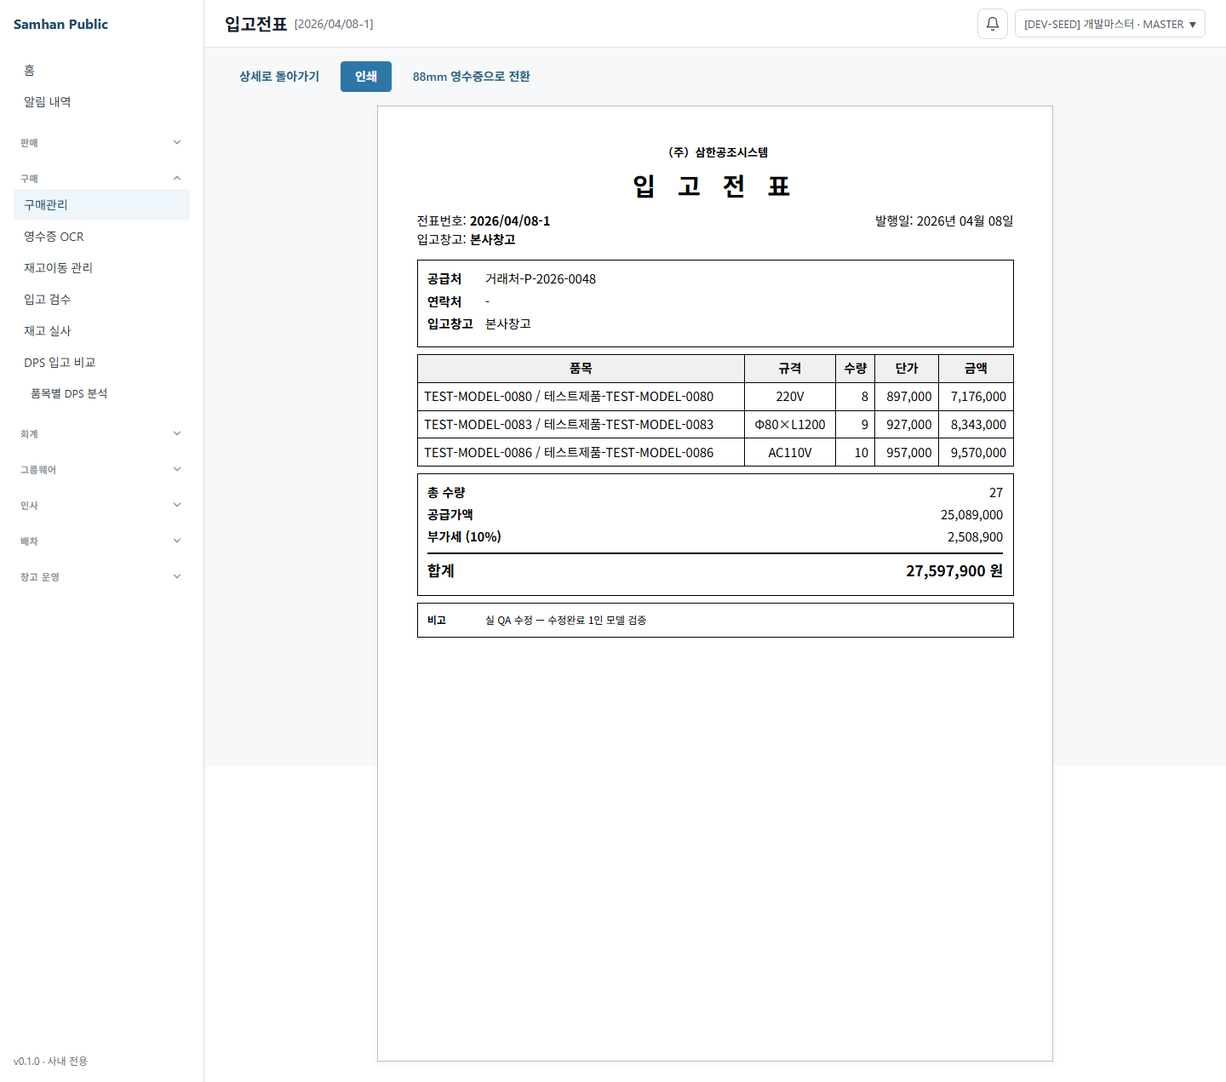
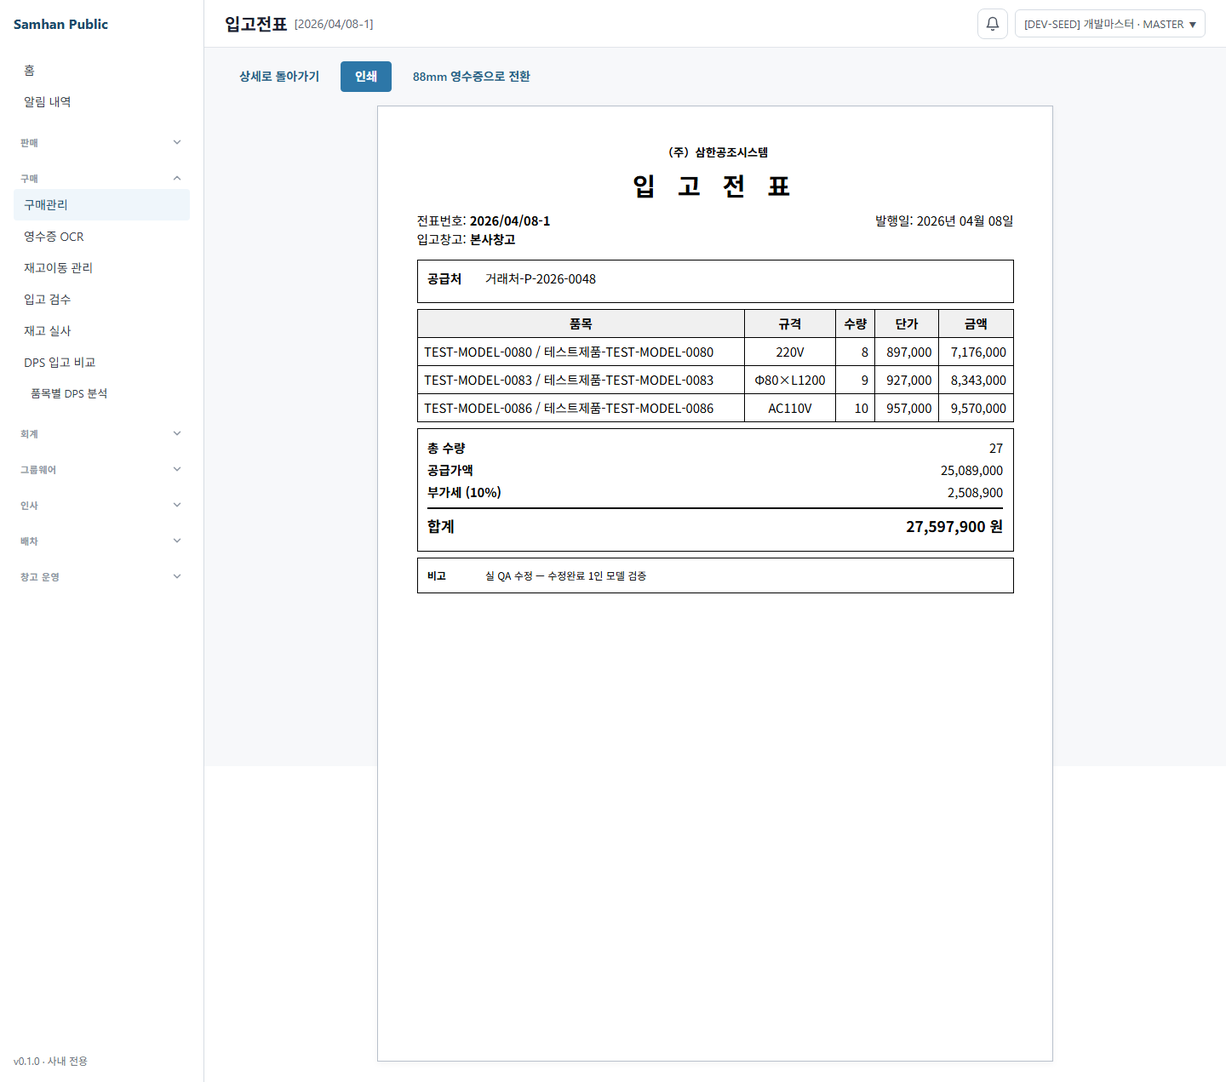
[FIX] 미리보기 슬라이스1 — Opus 리뷰 fix (문서 정합 + 입고창고 중복 + 전표번호 0제거 검증)
Opus 5-agent(FE/QA/Designer) 리뷰 수렴 fix.

P1 문서 정합 (방향 전환 미반영 → 정정):
- docs/manual/01-영업/06-견적서.md: 견적 인쇄 'UUID 고침/운영' 거짓 기록 → '종합견적서 에픽 이관, 진입 버그(estimateNo→%2F→게이트웨이 400) origin 선재' 정정.
- DESIGN.md: 슬라이스1 구방향(결재란 확장+입고/견적 결재) → 최종(입고=출고양식/견적=에픽/결재골격=후속 결재문서 에픽 미사용 스캐폴드) 전면 갱신.

P2:
- InboundView 입고창고 헤더+박스 중복 → 출고전표 대칭(헤더 1회), emphasis no-op 제거, 공급처 연락처 조건부 렌더.
- real-qa C1/C3 전표번호 0제거 단언 추가 (2026/04/08-1 + not 001, 2026/02/18-1).
- orderNo.test.ts stripSlipNoZeros 단위테스트 16건 (order-app vitest 격리 16/16 PASS).

검증: typecheck 0, mock spec 5/5, 라이브 QA 2/2.

⚠ desktop 단위 테스트 러너 부재 — orderNo.test.ts CI 미연동(typecheck/build에서 exclude). desktop vitest 정식 도입은 후속 인프라 슬라이스.

Changed region(s): [[0.3438, 0.2762, 0.8438, 0.583]]

diff --git a/clients/desktop/src/renderer/utils/orderNo.test.ts b/clients/desktop/src/renderer/utils/orderNo.test.ts
@@ -1,0 +1,94 @@
+import { describe, it, expect } from 'vitest'
+
+import { stripSlipNoZeros, toOrderPathId } from './orderNo'
+
+/**
+ * `orderNo` 유틸 단위 테스트 — 인쇄 미리보기 표준화 슬라이스1.
+ *
+ * 본 테스트는 desktop 인쇄 양식(입고/출고전표)이 의존하는 전표번호 표시 계약을 박제한다.
+ * desktop 은 단위 러너(vitest)를 상시 포함하지 않으므로, 실행 검증은 order-app 의
+ * vitest 바이너리로 격리 수행한다(PR 보고에 명시). 본 파일은 production typecheck/build
+ * 대상에서 제외(`*.test.ts` exclude)되어 `npm run typecheck` 0 을 유지한다.
+ *
+ * 검증 대상 계약(실 구현 동작 기준 — `stripSlipNoZeros` 는 마지막 `-` 뒤 숫자부만 0제거):
+ *  - 전표번호 표준 `YYYY/MM/DD-NNN` 의 날짜 0은 보존, 번호부 앞자리 0만 제거
+ *  - 하이픈이 없거나 마지막 `-` 뒤가 숫자가 아니면 원본 폴백(no-op)
+ *  - null/undefined/빈 문자열은 빈 문자열
+ */
+describe('stripSlipNoZeros', () => {
+  describe('전표번호 표준(YYYY/MM/DD-NNN) — 날짜 0 보존 + 번호부 0제거', () => {
+    it('2026/04/08-001 → 2026/04/08-1 (날짜 0 보존, 번호부 선행 0제거)', () => {
+      expect(stripSlipNoZeros('2026/04/08-001')).toBe('2026/04/08-1')
+    })
+
+    it('2026/02/18-001 → 2026/02/18-1 (출고전표 C3 시드 케이스)', () => {
+      expect(stripSlipNoZeros('2026/02/18-001')).toBe('2026/02/18-1')
+    })
+
+    it('2026/04/08-010 → 2026/04/08-10 (앞자리 0만 제거, 뒤 0 보존)', () => {
+      expect(stripSlipNoZeros('2026/04/08-010')).toBe('2026/04/08-10')
+    })
+
+    it('2026/12/31-0010 → 2026/12/31-10 (다중 선행 0 제거)', () => {
+      expect(stripSlipNoZeros('2026/12/31-0010')).toBe('2026/12/31-10')
+    })
+
+    it('2026/04/08-1 → 2026/04/08-1 (이미 0 없음 — 변화 없음)', () => {
+      expect(stripSlipNoZeros('2026/04/08-1')).toBe('2026/04/08-1')
+    })
+  })
+
+  describe('마지막 -뒤 숫자부 단독 케이스', () => {
+    it('-000 → -0 (전부 0 → 최소 0 유지)', () => {
+      expect(stripSlipNoZeros('-000')).toBe('-0')
+    })
+
+    it('-0 → -0 (단일 0 유지)', () => {
+      expect(stripSlipNoZeros('-0')).toBe('-0')
+    })
+  })
+
+  describe('폴백 — 하이픈 없음 / 비숫자 tail (원본 그대로)', () => {
+    it('하이픈이 없는 숫자열은 원본 폴백(번호부 분리 불가): 001 → 001', () => {
+      // 구현 계약: 마지막 `-` 가 없으면 번호부를 분리하지 않고 원본 반환.
+      // (단독 숫자열은 전표번호 표준 형식이 아니므로 0제거 대상이 아님)
+      expect(stripSlipNoZeros('001')).toBe('001')
+    })
+
+    it('하이픈이 없는 숫자열은 원본 폴백: 010 → 010', () => {
+      expect(stripSlipNoZeros('010')).toBe('010')
+    })
+
+    it('마지막 -뒤가 비숫자면 원본 폴백: ABC-12x → ABC-12x', () => {
+      expect(stripSlipNoZeros('ABC-12x')).toBe('ABC-12x')
+    })
+
+    it('마지막 -뒤가 비숫자면 원본 폴백: NO-DASH-HERE-abc → NO-DASH-HERE-abc', () => {
+      expect(stripSlipNoZeros('NO-DASH-HERE-abc')).toBe('NO-DASH-HERE-abc')
+    })
+  })
+
+  describe('null / undefined / 빈 문자열', () => {
+    it('null → 빈 문자열', () => {
+      expect(stripSlipNoZeros(null)).toBe('')
+    })
+
+    it('undefined → 빈 문자열', () => {
+      expect(stripSlipNoZeros(undefined)).toBe('')
+    })
+
+    it("빈 문자열 → 빈 문자열", () => {
+      expect(stripSlipNoZeros('')).toBe('')
+    })
+  })
+})
+
+describe('toOrderPathId', () => {
+  it('슬래시 → 하이픈 치환 (URL 경로 세그먼트): 2026/05/31-2 → 2026-05-31-2', () => {
+    expect(toOrderPathId('2026/05/31-2')).toBe('2026-05-31-2')
+  })
+
+  it('하이픈 입력은 no-op: 2026-05-31-2 → 2026-05-31-2', () => {
+    expect(toOrderPathId('2026-05-31-2')).toBe('2026-05-31-2')
+  })
+})

diff --git a/clients/desktop/src/renderer/print/InboundView.tsx b/clients/desktop/src/renderer/print/InboundView.tsx
@@ -91,14 +91,12 @@ export function InboundView() {
             <span className="label">공급처</span>
             <span className="value">{slip.partnerName ?? '-'}</span>
           </div>
-          <div className="row">
-            <span className="label">연락처</span>
-            <span className="value">{slip.contactPhone ?? '-'}</span>
-          </div>
-          <div className="row">
-            <span className="label">입고창고</span>
-            <span className="value emphasis">{destWarehouseName}</span>
-          </div>
+          {slip.contactPhone ? (
+            <div className="row">
+              <span className="label">연락처</span>
+              <span className="value">{slip.contactPhone}</span>
+            </div>
+          ) : null}
         </section>
 
         <div className="inbound-divider">- - - - - - - - - - - - - - - - - - - -</div>

diff --git a/docs/design/print-preview-standardization/DESIGN.md b/docs/design/print-preview-standardization/DESIGN.md
@@ -1,8 +1,23 @@
-# 전자서명 결재문서 형식 — 공통 인쇄 양식 설계 가이드
+# 미리보기 표준화 — 공통 인쇄 양식 설계 가이드
 
 작성일: 2026-06-14
 작성자: Designer (Samhan Public)
 결정 근거: 개발책임자 2026-06-14 구두 결정 (미리보기 표준화 에픽)
+최종 갱신: 2026-06-14 (PR #481 — 슬라이스1 방향 전환 반영)
+
+> ## 🔀 슬라이스1 방향 전환 (2026-06-14, PR #481) — 본 문서 정정 사유
+>
+> 본 가이드의 **초안 방향**은 "슬라이스1 = PrintLayout 결재란 확장 + 입고전표·견적서를 전자서명 결재문서 형식으로 전환" 이었다.
+> 그러나 슬라이스1 진행 중 개발책임자 결정으로 방향이 다음과 같이 **전환**되었고, 실제 머지 코드는 이 전환된 방향을 따른다.
+>
+> | 항목 | 초안 방향 (폐기) | **최종 방향 (슬라이스1 실제 구현)** |
+> |---|---|---|
+> | **입고전표** (`InboundView.tsx`) | 결재란 3칸 결재문서 형식으로 전환 | **출고전표(`OutboundView.tsx`) 양식과 통일.** 결재란 미적용. A4 세로 기본 + 88mm 영수증 토글. 헤더에 입고창고 1회 표시(중복 제거). 전표번호 0제거 적용 |
+> | **견적서** (`QuoteView.tsx`) | 결재란 3칸 결재문서 형식으로 전환, `[직인]` 제거 | **종합견적서 에픽으로 이관.** 슬라이스1 미변경. 진입 버그(슬래시 견적번호 → 게이트웨이 `%2F` 차단 → 400)는 origin 선재 상태로 잔존, 종합견적서 에픽에서 해결 |
+> | **PrintLayout 결재 골격** (`approvalDoc`/`docHeader`/`approvalSteps`/`.print-approval-*`) | 슬라이스1에서 입고/견적에 적용·렌더 | **후속 "결재문서 에픽"(그룹웨어 결재 등)용 미사용 스캐폴드로만 존속.** 슬라이스1에서 어떤 view 도 `approvalDoc=true` 를 전달하지 않아 **미렌더**. opt-in 기본값 `false` 유지 |
+> | **전표번호 표시** | (해당 없음) | `stripSlipNoZeros` 추가 — 전표번호 표준 `YYYY/MM/DD-NNN` 의 날짜 0은 보존하고 마지막 `-` 뒤 번호부 선행 0만 제거(`-001` → `-1`). 입고·출고전표 공통 적용 |
+>
+> 아래 §2~§9 의 결재문서 형식 상세 설계는 **후속 "결재문서 에픽" 용 설계 자료**로 보존한다 (슬라이스1 미적용분 포함). 슬라이스1 실제 구현 범위는 §6 "슬라이스 분할 로드맵 — 슬라이스 1" 의 갱신된 내용을 진실원으로 한다.
 
 ---
 
@@ -15,19 +30,25 @@
 | 양식 | View 파일 | 이유 |
 |---|---|---|
 | 출고전표 (작업지시서) | `DispatchView.tsx` | 개발책임자 확정 legacy 양식 (SAMSUNG 로고 스트립, 결재란 5칸) |
-| 출고전표 (영수증) | `OutboundView.tsx` | 거래처 동봉용, 88mm/A4 분기 유지 |
+| 출고전표 (영수증) | `OutboundView.tsx` | 거래처 동봉용, 88mm/A4 분기 유지. **슬라이스1 에서 입고전표가 이 양식으로 통일됨(기준 양식)** |
 | 거래명세서 | `InvoiceView.tsx`, `StatementBatchView.tsx` | 법정 양식 아니나 거래처 수발 양식 |
 | 세금계산서 | `TaxInvoiceView.tsx`, `SalesInvoicePrintPage.tsx` | 국세청 e-Tax 표준 양식 |
 | 매입전표 (PurchaseSlipPrintPage) | `PurchaseSlipPrintPage.tsx` | legacy GAS 100% 매칭 의무 (SP-08) |
 
-### 1-B. 일관화 대상 ("결재문서 형식" 신규 적용)
+### 1-B. 슬라이스1 실제 적용 범위 (방향 전환 후)
 
-로고/인감 없이 전자서명 결재란만 포함하는 회사 공식 결재문서.
+| 문서 | 현행 View | **슬라이스1 처리** |
+|---|---|---|
+| 입고전표 | `InboundView.tsx` | **출고전표(`OutboundView.tsx`) 양식으로 통일.** 결재란/결재문서 형식 미적용. 헤더 meta-row 에 입고창고 1회 표시(공급처 박스 내 중복 row 제거), 공급처 연락처는 값 있을 때만 조건부 렌더, 전표번호 0제거(`stripSlipNoZeros`) 적용 |
+| 견적서 | `QuoteView.tsx` | **종합견적서 에픽으로 이관 — 슬라이스1 미변경.** 진입 버그 잔존(아래 §1-D) |
+
+### 1-C. 후속 "결재문서 에픽" 대상 (전자서명 결재문서 형식 — 슬라이스1 미적용)
+
+로고/인감 없이 전자서명 결재란만 포함하는 회사 공식 결재문서. **§2~§9 의 결재문서 형식 설계는 본 분류를 위한 후속 에픽 자료이며, 슬라이스1 에서는 적용하지 않는다.** PrintLayout 의 `approvalDoc` 골격은 그룹웨어 결재 등 후속 에픽이 사용할 미렌더 스캐폴드로만 존속한다.
 
 | 문서 | 현행 View | 현행 결재란 현황 |
 |---|---|---|
-| 입고전표 | `InboundView.tsx` | `[인]` 텍스트 사인란 3칸 (담당자/검수자/공급처확인) — 전자서명 미적용 |
-| 견적서 | `QuoteView.tsx` | `[직인]` 텍스트 사인란 1칸 — 전자서명 미적용 |
+| 그룹웨어 결재 첨부 미리보기 | `GroupwareApprovalDetailPage.tsx` 파생 신규 | 미리보기 인쇄 미구현 — 후속 에픽 1순위 (approvalDoc 골격 첫 실사용 예정) |
 | 배차 작업지시서 (그룹웨어 연동용) | `DispatchView.tsx` 파생 신규 | 현행 DispatchView 는 제외 대상. 그룹웨어 결재 첨부 미리보기는 신규 설계 필요 |
 | 거래처원장 | `PartnerLedgerView.tsx` | 발행자 footer 만 있음 — 결재란 없음 |
 | 분개장 | 미구현 (print-spec.md 설계만) | - |
@@ -43,6 +64,16 @@
 | 일계표 | 미구현 | - |
 | 월계표 | 미구현 | - |
 | 미수/미지급 현황 | 미구현 | - |
+
+### 1-D. 견적 인쇄 진입 버그 (origin 선재 — 종합견적서 에픽 이관)
+
+견적 인쇄는 본 에픽 이전부터 진입 단계에서 실패하는 상태이며, **미리보기 표준화 슬라이스1 범위 외**이다.
+
+- `EstimateDetailPage.handlePrint` 이 슬래시 표준 견적번호(`estimateNo`, 예: `2026/06/08-2`)를 `encodeURIComponent` 로 인코딩해 path 세그먼트로 전달한다 (`/#/sales/estimates/2026%2F06%2F08-2/print`).
+- 라우트 `/sales/estimates/:estimateNumber/print` → `QuoteView` 가 `getEstimate(estimateNumber)` 호출.
+- 게이트웨이/Spring `StrictHttpFirewall` 이 인코딩된 슬래시(`%2F`)를 차단 → 400.
+- 전표/주문번호 슬래시 표준 정책상 URL 경로 세그먼트는 `toOrderPathId` 로 하이픈 치환해야 하나, 견적 인쇄 경로는 미적용 상태.
+- 해결은 **종합견적서 에픽** 에서 진입 경로 정정 + 양식과 함께 진행한다. (메뉴얼 `docs/manual/01-영업/06-견적서.md` §4-5 동기화 완료.)
 
 ---
 
@@ -165,6 +196,8 @@ Regular 8pt, `--ink-tertiary`, 결재란 아래 2mm 간격.
 
 ## 3. PrintLayout 확장 방안
 
+> 📍 **구현 현황 (PR #481 기준):** 아래 §3-B 의 `approvalDoc`/`docHeader`/`approvalSteps`/`closingNote` 슬롯은 `PrintLayout.tsx` 에 **이미 구현되어 있다**(인터페이스 `PrintDocHeader`/`PrintApprovalStep` + `.print-approval-doc` 렌더 분기 + 결재란 우상단 코너 배치 + 전자서명 안내 문구). 다만 **슬라이스1 에서 이 골격을 사용하는 view 는 없다**(`approvalDoc` 기본값 `false`, 어떤 호출처도 `true` 미전달 → 미렌더). 후속 결재문서 에픽(그룹웨어 결재 등)이 첫 실사용 예정이다. 아래 설계 문구의 "구현은 FE agent 담당" 등 미래형 표현은 초안 시점 기준이다.
+
 ### 3-A. 현행 PrintLayout 구조 분석
 
 `clients/desktop/src/renderer/print/PrintLayout.tsx` (L60-L88):
@@ -257,7 +290,9 @@ interface ApprovalStep
 
 ### 4-A. 인쇄 공통 토큰 (기존 + 신규)
 
-기존 `--print-*` 토큰 (`tokens.css`) 을 그대로 사용. 슬라이스1 토큰 등재 현황 (구현 = 진실원):
+> ⚠ **슬라이스1 방향 전환 반영:** 아래 `--print-approval-*` 결재 토큰은 **후속 결재문서 에픽용**이며 슬라이스1 의 입고/출고전표 양식에는 사용되지 않는다. 실제 등재값의 진실원은 `clients/web/design-system/src/tokens/tokens.css` 이며(코드에는 본 표 외 `--print-approval-corner-*` 등 우상단 코너 배치용 토큰도 등재되어 있음), 후속 에픽 착수 시 코드 기준으로 표를 재정리한다.
+
+기존 `--print-*` 토큰 (`tokens.css`) 을 그대로 사용. 결재 토큰 등재 현황 (구현 = 진실원, **후속 에픽용 — 슬라이스1 미사용**):
 
 | 토큰명 | 값 | 용도 | tokens.css 등재 |
 |---|---|---|---|
@@ -309,15 +344,17 @@ interface ApprovalStep
 
 ## 5. 문서별 결재선 정의 매핑
 
-### 5-A. 전표류
+> ⚠ **본 §5 매핑은 후속 "결재문서 에픽" 설계 자료다.** 슬라이스1 방향 전환(문서 상단 🔀 배너)으로 **입고전표·견적서는 결재문서 형식 적용 대상에서 제외**되었다. 아래 5-A 의 입고/견적 결재선은 후속 에픽에서 재검토하며, 슬라이스1 에서는 적용하지 않는다.
+
+### 5-A. 전표류 (후속 에픽 — 슬라이스1 미적용)
 
 | 문서 | 결재 칸 | 서명 데이터 소스 |
 |---|---|---|
-| 입고전표 | 작성 / 검토 / 승인 (3칸) | 담당자(`ownerFullName`) / 검수자(`inspector.fullName`) / 승인자(미구현) |
-| 견적서 | 작성 / 검토 / 승인 (3칸) | 작성자(`authorName`) / 검토자(미구현) / 승인자(미구현) |
+| ~~입고전표~~ (슬라이스1 에서 출고전표 양식 통일로 전환 — 결재란 미적용) | (후속 에픽 재검토) | - |
+| ~~견적서~~ (종합견적서 에픽 이관) | (종합견적서 에픽 재검토) | - |
 
-현행 `InboundView.tsx` (L184-L210): 3칸 `[인]` 텍스트 사인란 → 전자서명으로 교체.
-현행 `QuoteView.tsx` (L241-L248): `[직인]` 텍스트 → 제거, 전자서명 결재란으로 교체.
+> 슬라이스1 실제 처리: 입고전표는 `OutboundView` 양식으로 통일(결재란 미적용), 견적서는 종합견적서 에픽 이관. §1-B / §6 슬라이스1 참조.
+> 후속 결재문서 에픽이 전표류에 결재란을 적용할 경우의 데이터 소스 후보(설계 자료): 입고전표 담당자(`ownerFullName`)/검수자(`inspector.fullName`), 견적서 작성자(`authorName`) 등 — 실연동은 그룹웨어 결재 연동 후 재정의.
 
 ### 5-B. 그룹웨어 결재 연동 문서 (배차 작업지시서 파생)
 
@@ -361,23 +398,29 @@ interface ApprovalStep
 
 ## 6. 슬라이스 분할 로드맵
 
-### 슬라이스 1 — PrintLayout 결재란 확장 + 전표류 (입고/견적)
+### 슬라이스 1 — 입고전표 출고통일 + 견적 분리 (최종 방향, PR #481)
 
-**범위**
-- `PrintLayout.tsx` prop 확장 (`approvalDoc`, `docHeader`, `approvalSteps`)
-- 공통 헤더/결재란 렌더 컴포넌트 신규 (`ApprovalDocHeader`, `ApprovalSignBlock`)
-- `tokens.css` `--print-approval-*` 토큰 추가 (w-std/h-std/sig-h/name-h/label-h/img-max-h-approval/border = 7종 등재, label-bg·line-color 는 기존 재사용)
-- `InboundView.tsx`: `approvalDoc=true` 전환, 3칸 `[인]` → `SignatureViewer`
-- `QuoteView.tsx`: `approvalDoc=true` 전환, `[직인]` 제거, 3칸 결재란
+> **방향 전환 반영.** 초안의 "입고/견적 결재문서 전환" 은 폐기되고 아래로 대체되었다. PrintLayout 결재 골격은 후속 결재문서 에픽용 미사용 스캐폴드로만 존속한다(문서 상단 🔀 배너 참조).
 
-**의존**: 현재 `SignatureViewer` 기존 그대로 재사용. 신규 서명 수집 API 불필요 (기존 `slip.inspector.fullName` 등 이름만 표시, signaturePng 미연결은 placeholder).
+**범위 (실제 머지)**
+- `InboundView.tsx`: **출고전표(`OutboundView.tsx`) 양식과 통일.**
+  - 결재란/결재문서 형식 미적용 (`approvalDoc` 미전달 → 기존 children 양식 렌더).
+  - 입고창고는 **헤더 meta-row 에 1회만** 표시 — 공급처 박스 내 중복 입고창고 row 및 미정의 `emphasis` no-op 클래스 제거 (OutboundView 의 출하창고=헤더 1회 패턴과 대칭).
+  - 공급처 **연락처(contactPhone)는 값이 있을 때만 조건부 렌더** (매입 전표 연락처 상시 공란 시 빈 라벨 방지 — OutboundView 의 `driverName` 조건부 렌더 패턴과 동일).
+  - A4 세로 기본 + 88mm 영수증 토글 유지.
+- 전표번호 표시 0제거: `clients/desktop/src/renderer/utils/orderNo.ts` `stripSlipNoZeros` — 날짜 0 보존, 마지막 `-` 뒤 번호부 선행 0만 제거(`-001` → `-1`). 입고(`InboundView`)·출고(`OutboundView`) `displaySlipNo` + `usePageTitle` 공통 적용. 하이픈 없음/비숫자 tail/null·undefined·빈문자열은 폴백.
+- `QuoteView.tsx`: **슬라이스1 미변경 — 종합견적서 에픽 이관** (진입 버그 §1-D 잔존).
+- `PrintLayout.tsx`: `approvalDoc`/`docHeader`/`approvalSteps`/`closingNote` 골격은 코드상 존재하나 **슬라이스1 에서 어떤 view 도 사용하지 않음(미렌더 스캐폴드)**. 후속 결재문서 에픽(그룹웨어 결재 등)이 첫 실사용 예정.
+
+**의존**: 신규 서명 수집 API 불필요. 결재 골격 미사용으로 `SignatureViewer` 연동도 슬라이스1 범위 외.
 
 **결과물**
-- `docs/design/print-preview-standardization/DESIGN.md` (본 파일)
-- `clients/desktop/src/renderer/print/PrintLayout.tsx` 확장
-- `clients/web/design-system/src/tokens/tokens.css` `--print-approval-*` 토큰 7종 등재 (label-bg·line-color 기존 재사용)
-- `InboundView.tsx` 결재란 교체
-- `QuoteView.tsx` 결재란 교체
+- `docs/design/print-preview-standardization/DESIGN.md` (본 파일 — 방향 전환 반영)
+- `clients/desktop/src/renderer/print/InboundView.tsx` — 출고전표 양식 통일(입고창고 중복 제거 + 연락처 조건부)
+- `clients/desktop/src/renderer/print/OutboundView.tsx` — 기존 양식 보존(회귀 기준)
+- `clients/desktop/src/renderer/utils/orderNo.ts` `stripSlipNoZeros` + `clients/desktop/src/renderer/utils/orderNo.test.ts` (단위 테스트)
+- `clients/desktop/playwright/print-preview-standardization/print-preview-standardization-real-qa.spec.ts` — C1(입고 통일 + 0제거) / C3(출고 보존 + 0제거) 라이브 QA
+- `clients/web/design-system/src/tokens/tokens.css` `--print-approval-*` 토큰 — **후속 결재문서 에픽 대비 등재분(슬라이스1 미사용)**
 
 **Iteration 가드 적용**: 1차 mock → Edge 캡처 → 3-5회 CSS 미세 조정. 단번 완성 금지.
 

diff --git a/docs/manual/01-영업/06-견적서.md b/docs/manual/01-영업/06-견적서.md
@@ -1,6 +1,8 @@
 # 06. 견적서 작성 및 발송
 
-> **Stage**: Stage 1 ✅ — P2-1 구현 완료. 정식 견적 화면 `/sales/estimates` 운영 중.
+> **Stage**: Stage 1 ✅ — P2-1 구현 완료. 정식 견적 화면 `/sales/estimates` (목록/작성/상세/전표변환) 운영 중.
+>
+> ⚠ **단, 견적서 인쇄(`/sales/estimates/:estimateNumber/print`)는 진입 버그(슬래시 견적번호 → 게이트웨이 `%2F` 차단 → 400)가 잔존하여 미정상화 상태입니다. 종합견적서 에픽으로 이관되어 그곳에서 해결합니다 (§4-5 참조).**
 
 ---
 
@@ -12,7 +14,7 @@
 | 견적서 작성 (`/sales/estimates/new`) | ✅ 운영 | EstimateFormPage |
 | 견적서 상세/편집 (`/sales/estimates/:id`) | ✅ 운영 | EstimateDetailPage |
 | 전표 변환 버튼 (QUOTE_ACCEPTED → OUTBOUND DRAFT) | ✅ 운영 | convertEstimate API |
-| 견적서 인쇄 (`/sales/estimates/:id/print`) | ✅ 운영 | QuoteView 인쇄 양식. path id 는 UUID |
+| 견적서 인쇄 (`/sales/estimates/:estimateNumber/print`) | ⚠ 진입 버그 잔존 (종합견적서 에픽 이관) | QuoteView 양식 mock 은 존재하나, `handlePrint` 이 슬래시 견적번호를 path 로 전달 → 게이트웨이 `%2F` 차단 → 400. 미리보기 표준화 슬라이스1 범위 외, 종합견적서 에픽에서 해결 |
 | audit overlay + SSE 실시간 동기화 | ✅ 운영 | PR-H4c |
 
 ---
@@ -30,7 +32,7 @@
 - 견적서 목록 조회 및 상태 필터
 - 신규 견적서 작성 (거래처 자동완성 + 모델명 lookup + 라인 입력)
 - 견적서 발송 → 수락 → 전표 변환 워크플로우
-- 견적서 인쇄 (새 창 PDF)
+- 견적서 인쇄 (새 창 PDF) — ⚠ 현재 진입 버그 잔존, 종합견적서 에픽 이관 (§4-5)
 - 변경 이력 조회 및 이전 버전 복원
 
 ---
@@ -101,13 +103,15 @@
 
 ### 4-5. 견적서 인쇄
 
-모든 상태에서 **[인쇄]** 버튼 클릭 → 새 창 (`/sales/estimates/:id/print`) 열림.
-
-- 화면 표시값은 견적번호 `estimateNo`(예: `2026/06/08-2`) 입니다.
-- 라우트 path 의 `:id` 는 UUID 입니다. 슬래시가 포함된 견적번호를 path param 으로 사용하지 않습니다.
-
-- Edge 또는 Chrome 에서 Ctrl+P 또는 화면 우클릭 → 인쇄
-- A4 portrait 권장
+> ⚠ **현재 진입 버그 잔존 — 종합견적서 에픽에서 해결 예정.**
+>
+> 모든 상태에서 **[인쇄]** 버튼을 클릭하면 새 창 (`/sales/estimates/:estimateNumber/print`, QuoteView) 을 여는 동작이 mock 으로 구현되어 있으나, **현재 정상 동작하지 않습니다.**
+>
+> - 원인: `EstimateDetailPage.handlePrint` 이 슬래시 표준 견적번호(`estimateNo`, 예: `2026/06/08-2`) 를 `encodeURIComponent` 로 인코딩해 path 세그먼트로 전달합니다 (`.../estimates/2026%2F06%2F08-2/print`). 게이트웨이/Spring `StrictHttpFirewall` 이 인코딩된 슬래시(`%2F`) 를 차단하여 조회 단계에서 400 이 발생합니다. (전표/주문번호 슬래시 표준 + 게이트웨이 `%2F` 차단 정책 참조 — URL 경로 세그먼트는 `toOrderPathId` 로 하이픈 치환해야 합니다.)
+> - 이 버그는 미리보기 표준화 에픽 이전부터 존재한 **origin 선재 상태**이며, 미리보기 표준화 **슬라이스1 범위 외**입니다.
+> - 견적 인쇄 전반(진입 경로 정정 + 양식)은 **종합견적서 에픽** 으로 이관되어 그곳에서 해결합니다.
+>
+> 정상화 이후: Edge 또는 Chrome 에서 Ctrl+P 또는 화면 우클릭 → 인쇄, A4 portrait 권장.
 
 ### 4-6. 변경 이력 (audit overlay)
 
@@ -134,6 +138,8 @@
 ![견적서 상세](../screenshots/01-영업/06-estimate-detail.png)
 
 ### 5-4. 견적서 인쇄
+
+> ⚠ 아래 양식은 QuoteView mock 캡처입니다. 현재 진입 버그(§4-5)로 실 데이터 인쇄는 미정상화 상태이며, 종합견적서 에픽에서 해결합니다.
 
 ![견적서 인쇄](../screenshots/01-영업/06-estimate-print.png)
 
